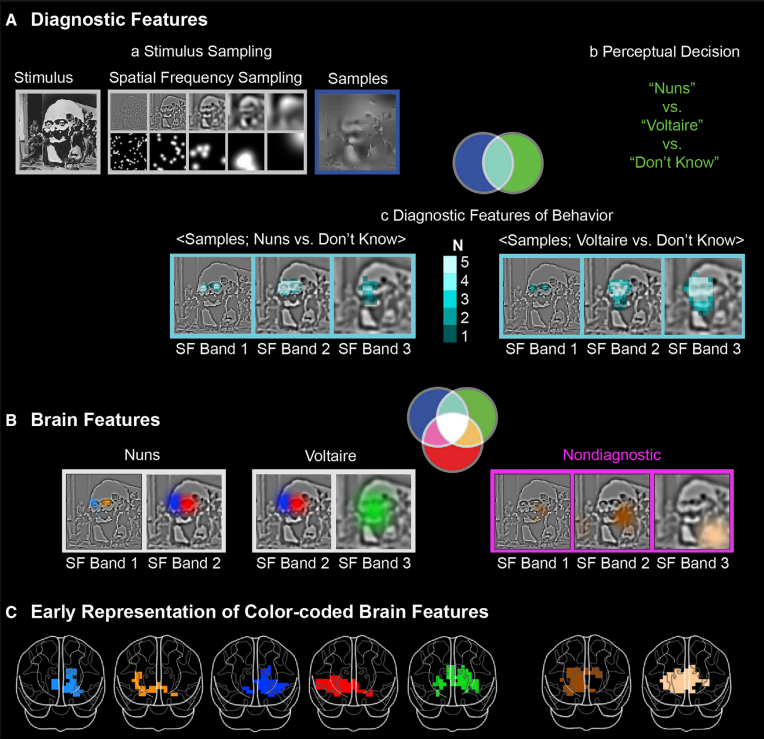
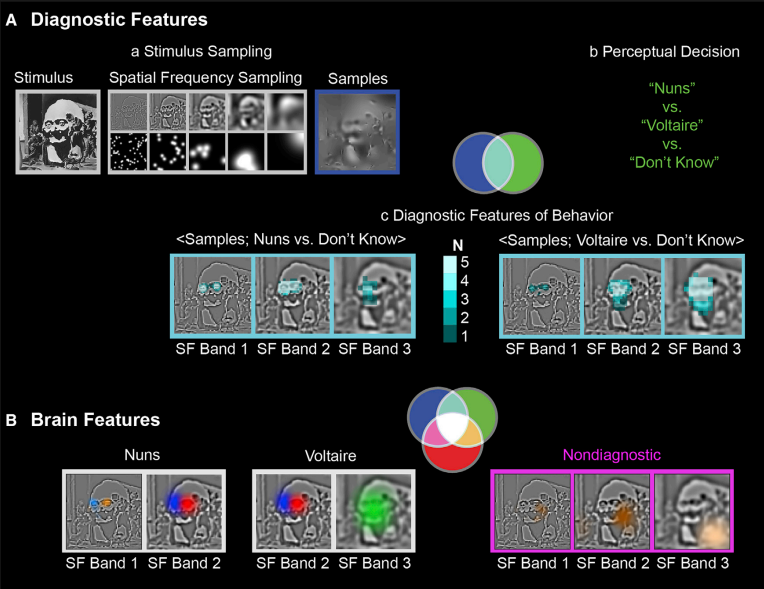
update

diff --git a/publications.html b/publications.html
@@ -217,7 +217,7 @@
           <div class="column is-two-thirds ">
             <div class="content">
               <p>
-                <strong>Modeling individual preferences reveals that face beauty is not universally perceived across cultures</strong>
+                <strong>Modelling Individual preferences reveals that face beauty is not universally perceived across cultures</strong>
                 <br>
                 <a class="tag is-small is-success is-light" href="https://scholar.google.com/citations?user=8dCtFiIAAAAJ&hl=en" target="_blank">Jiayu Zhan<sup>✉</sup></a>
                 <a class="tag is-small is-success is-light" href="https://scholar.google.com/citations?user=bj9EfQwAAAAJ&hl=en" target="_blank">Meng Liu</a>

diff --git a/index.html b/index.html
@@ -35,10 +35,10 @@
 
   <div class="slideshow-window">
     <div class="slide active">
-      <img src="/assets/carousel/fig1.jpg" loading="lazy">
+      <img src="/assets/carousel/fig2.jpg" loading="lazy">
     </div>
     <div class="slide">
-      <img src="/assets/carousel/fig2.jpg" loading="lazy">
+      <img src="/assets/carousel/fig1.jpg" loading="lazy">
     </div>
     <!-- <div class="slide">
       <img src="assets/carousel/fig3.jpg">
